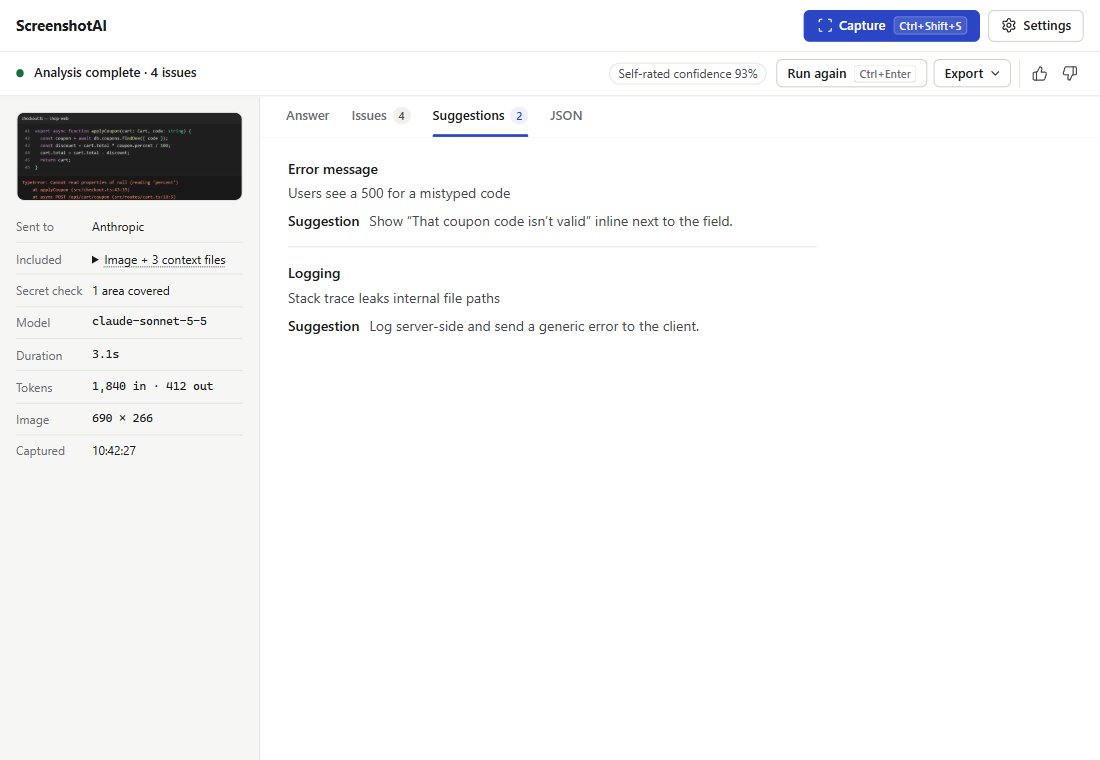
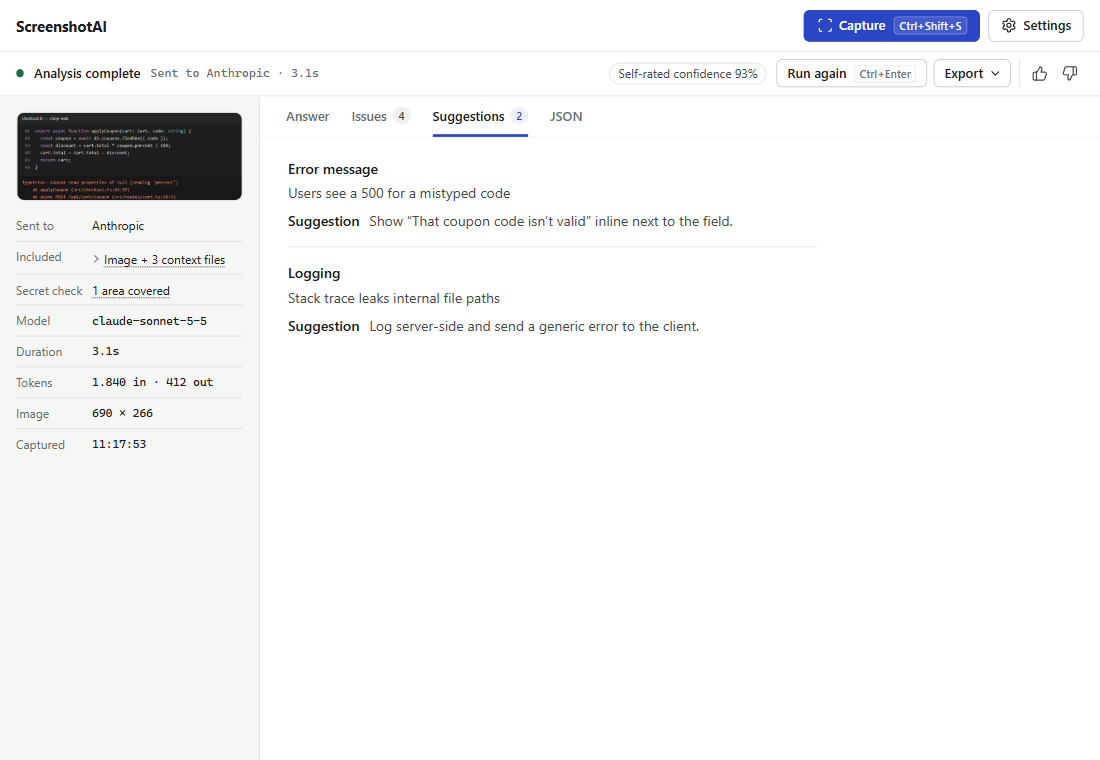
Keep the result across Settings and outline covered areas
- Save the last result, screenshot and run details in session storage
  and restore them on return, so Settings, the status chips and error
  links no longer reset the window to the welcome screen.
- The secret check now reports covered regions (positions only). The
  "Secret check" row opens the screenshot viewer with them outlined.
- Capture's tooltip names where the image is sent; the status line says
  "Sent to <provider> · <time>" instead of repeating the issue count.
- Drop fonts.css from the main window so its own font tokens apply.
- One disclosure chevron style, consistent run-detail fonts, token counts
  in the system locale, tooltips on the feedback buttons.
- Refresh README screenshots.

diff --git a/apps/desktop/src/renderer/index.ts b/apps/desktop/src/renderer/index.ts
@@ -230,6 +230,7 @@ function updateControls() {
   // Say where Run again sends the image: it's the one action that leaves the machine without a new capture.
   const sendTarget = `Sends the same image again to ${providerLabel(settingsProvider ?? runMeta.provider) || 'your AI provider'}.`;
   runAgainBtn.title = sendTarget;
+  captureBtn.title = `Capture a region and send it to ${providerLabel(settingsProvider) || 'your AI provider'} after a local secret check.`;
   const runAgainDesc = byId('run-again-desc');
   if (runAgainDesc) runAgainDesc.textContent = sendTarget;
   exportBtn.disabled = !showingResult;
@@ -309,7 +310,11 @@ function readShieldSummary(value: unknown): ShieldSummary | undefined {
   const s = value as Partial<ShieldSummary> | null | undefined;
   if (!s || !SHIELD_STATUSES.includes(String(s.status))) return undefined;
   const count = (n: unknown) => (typeof n === 'number' && Number.isFinite(n) && n >= 0 ? Math.floor(n) : 0);
-  return { status: s.status as ShieldSummary['status'], found: count(s.found), covered: count(s.covered) };
+  const regions = (Array.isArray(s.regions) ? s.regions : [])
+    .slice(0, 200)
+    .map(r => ({ x: count(r?.x), y: count(r?.y), w: count(r?.w), h: count(r?.h) }))
+    .filter(r => r.w > 0 && r.h > 0);
+  return { status: s.status as ShieldSummary['status'], found: count(s.found), covered: count(s.covered), ...(regions.length ? { regions } : {}) };
 }
 
 function receiveScreenshot(dataUrl: string, shield?: unknown) {
@@ -362,9 +367,9 @@ function renderRunMeta() {
     ['Secret check', meta.shield ? describeShield(meta.shield) : undefined, false],
     ['Model', model, true],
     ['Duration', typeof meta.durationMs === 'number' && meta.durationMs > 0 ? formatSeconds(meta.durationMs) : undefined, true],
-    ['Tokens', hasTokens ? formatTokens(meta.promptTokens!, meta.completionTokens!, 'en-US') : undefined, true],
+    ['Tokens', hasTokens ? formatTokens(meta.promptTokens!, meta.completionTokens!) : undefined, true],
     ['Image', meta.width && meta.height ? `${meta.width} × ${meta.height}` : undefined, true],
-    ['Captured', meta.capturedAt ? new Date(meta.capturedAt).toLocaleTimeString() : undefined, false],
+    ['Captured', meta.capturedAt ? new Date(meta.capturedAt).toLocaleTimeString() : undefined, true],
   ];
   screenshotMetadata.replaceChildren(...rows.filter(([, value]) => value).map(([label, value, mono]) => {
     const row = document.createElement('div');
@@ -375,6 +380,17 @@ function renderRunMeta() {
     if (mono) description.className = 'mono';
     description.textContent = value!;
     if (label === 'Included' && meta.sent) description.replaceChildren(renderSentDetails(meta.sent, value!));
+    if (label === 'Secret check' && meta.shield?.regions?.length && currentScreenshot) {
+      // The claim is checkable: open the capture with each covered area outlined.
+      const show = document.createElement('button');
+      show.type = 'button';
+      show.className = 'meta-link';
+      show.textContent = value!;
+      show.setAttribute('aria-label', `${value}: show in screenshot`);
+      show.title = 'Show covered areas in the screenshot';
+      show.addEventListener('click', openScreenshotViewer);
+      description.replaceChildren(show);
+    }
     row.append(term, description);
     return row;
   }));
@@ -673,6 +689,7 @@ function renderResult(response: ResultPayload, statusOverride?: string) {
     completionTokens: meta?.completionTokens,
   };
   lastResultView = { screenshot: currentScreenshot, meta: { ...runMeta } };
+  saveLastResult();
   renderRunMeta();
 
   filterSeverity = 'all';
@@ -685,10 +702,10 @@ function renderResult(response: ResultPayload, statusOverride?: string) {
   switchTab(landingTab());
   updateConfidence(data.confidence);
   resetFeedback();
-  // Provider, model and duration live in the side pane; the status line summarizes the outcome.
-  const issueCount = data.issues?.length ?? 0;
-  const outcome = issueCount ? `Analysis complete · ${issueCount} issue${issueCount === 1 ? '' : 's'}` : 'Analysis complete';
-  setStatus(statusOverride ? 'idle' : 'success', statusOverride ?? outcome);
+  // The tab badge carries the issue count; the status says where the image went and how long it took.
+  const where = joinDetail(providerLabel(runMeta.provider) ? `Sent to ${providerLabel(runMeta.provider)}` : undefined,
+    typeof runMeta.durationMs === 'number' && runMeta.durationMs > 0 ? formatSeconds(runMeta.durationMs) : undefined);
+  setStatus(statusOverride ? 'idle' : 'success', statusOverride ?? 'Analysis complete', where);
   updateControls();
 }
 
@@ -1217,6 +1234,7 @@ function updateViewerTransform() {
   if (!viewerImage) return;
   // CSSOM property (not markup): pan and zoom are continuous values.
   viewerImage.style.transform = `translate(${viewerPanX}px, ${viewerPanY}px) scale(${viewerZoom})`;
+  placeViewerRegions();
   if (viewerZoomLevel) viewerZoomLevel.textContent = `${Math.round(viewerZoom * 100)}%`;
 }
 
@@ -1232,12 +1250,51 @@ function resetViewer() {
   updateViewerTransform();
 }
 
+const SVG_NS = 'http://www.w3.org/2000/svg';
+
+/** Outline the areas the secret check covered, in the image's own pixel space. */
+function drawViewerRegions() {
+  const overlay = byId('viewer-regions');
+  const caption = byId('viewer-caption');
+  const regions = runMeta.shield?.regions ?? [];
+  if (!overlay || !viewerImage) return;
+  overlay.replaceChildren();
+  overlay.setAttribute('viewBox', `0 0 ${viewerImage.naturalWidth || 1} ${viewerImage.naturalHeight || 1}`);
+  for (const r of regions) {
+    const rect = document.createElementNS(SVG_NS, 'rect');
+    rect.setAttribute('x', String(r.x));
+    rect.setAttribute('y', String(r.y));
+    rect.setAttribute('width', String(r.w));
+    rect.setAttribute('height', String(r.h));
+    overlay.append(rect);
+  }
+  overlay.toggleAttribute('hidden', !regions.length);
+  if (caption) {
+    caption.hidden = !regions.length;
+    caption.textContent = regions.length ? `${regions.length} ${regions.length === 1 ? 'area' : 'areas'} covered before sending` : '';
+  }
+  placeViewerRegions();
+}
+
+/** Keep the overlay on the image's layout box with the same pan and zoom. */
+function placeViewerRegions() {
+  const overlay = byId('viewer-regions');
+  if (!overlay || !viewerImage || overlay.hasAttribute('hidden')) return;
+  overlay.style.left = `${viewerImage.offsetLeft}px`;
+  overlay.style.top = `${viewerImage.offsetTop}px`;
+  overlay.style.width = `${viewerImage.offsetWidth}px`;
+  overlay.style.height = `${viewerImage.offsetHeight}px`;
+  overlay.style.transform = viewerImage.style.transform;
+}
+
 function openScreenshotViewer() {
   if (!screenshotViewer || !viewerImage || !currentScreenshot) return;
   viewerReturnFocus = document.activeElement as HTMLElement | null;
   viewerImage.src = currentScreenshot;
   resetViewer();
   screenshotViewer.hidden = false;
+  if (viewerImage.complete) drawViewerRegions();
+  else viewerImage.addEventListener('load', drawViewerRegions, { once: true });
   byId('viewer-close')?.focus();
 }
 
@@ -1256,6 +1313,7 @@ function setupScreenshotViewer() {
   byId('viewer-zoom-out')?.addEventListener('click', () => setZoom(viewerZoom / 1.2));
   byId('viewer-reset')?.addEventListener('click', resetViewer);
   byId('viewer-close')?.addEventListener('click', closeScreenshotViewer);
+  window.addEventListener('resize', placeViewerRegions);
   screenshotViewer.querySelector('.screenshot-viewer-overlay')?.addEventListener('click', closeScreenshotViewer);
 
   viewerContent.addEventListener('wheel', event => {
@@ -1437,6 +1495,37 @@ function setupEventListeners() {
   });
 }
 
+// Settings opens in this same window, so the last result rides along in sessionStorage and comes back on return.
+const LAST_RESULT_KEY = 'screenshot-ai.last-result';
+
+function saveLastResult() {
+  if (!lastResult || !lastResultView) return;
+  const save = (screenshot: string | null) => sessionStorage.setItem(LAST_RESULT_KEY, JSON.stringify({ result: lastResult, view: { ...lastResultView, screenshot } }));
+  try {
+    save(lastResultView.screenshot);
+  } catch {
+    // Over quota with the image: keep the result without its preview rather than lose it.
+    try { save(null); } catch { /* storage unavailable: in-memory only */ }
+  }
+}
+
+function restoreLastResult(): boolean {
+  try {
+    const raw = sessionStorage.getItem(LAST_RESULT_KEY);
+    if (!raw) return false;
+    const stored = JSON.parse(raw) as { result?: ResultPayload; view?: { screenshot?: unknown; meta?: RunMeta } };
+    if (!stored.result?.success || !stored.result.data || !stored.view?.meta) return false;
+    const screenshot = typeof stored.view.screenshot === 'string' && SCREENSHOT_DATA_URL.test(stored.view.screenshot) ? stored.view.screenshot : null;
+    currentScreenshot = screenshot;
+    setPreview(screenshot);
+    runMeta = { ...stored.view.meta };
+    renderResult(stored.result);
+    return true;
+  } catch {
+    return false;
+  }
+}
+
 function initialize() {
   if (!initializeElements()) {
     console.error('Failed to initialize elements');
@@ -1455,7 +1544,8 @@ function initialize() {
   showView('welcome');
   switchTab('summary');
   updateControls();
-  void loadWelcome();
+  const restored = restoreLastResult();
+  void loadWelcome().then(() => { if (restored) updateControls(); });
 }
 
 if (document.readyState === 'loading') {

diff --git a/apps/desktop/src/renderer/index.html b/apps/desktop/src/renderer/index.html
@@ -4,7 +4,6 @@
     <meta charset="utf-8" />
     <meta http-equiv="Content-Security-Policy" content="default-src 'self'; script-src 'self'; style-src 'self' 'unsafe-inline'; img-src 'self' data:; font-src 'self'; connect-src 'self' ws://localhost:* ws://127.0.0.1:*; object-src 'none'; base-uri 'none'; form-action 'none'; frame-src 'none'" />
     <title>ScreenshotAI</title>
-    <link rel="stylesheet" href="fonts.css" />
     <style>
       /* ---------- Tokens ---------- */
       :root {
@@ -440,7 +439,19 @@
       .run-meta dt { color: var(--ink-3); }
       .run-meta dd { color: var(--ink); overflow-wrap: anywhere; font-variant-numeric: tabular-nums; }
       .run-meta dd.mono { font-size: 11.5px; line-height: 18px; }
-      .sent-files summary { cursor: pointer; color: var(--ink); text-decoration: underline dotted var(--ink-3); text-underline-offset: 3px; }
+      /* Same chevron as Technical details, so every disclosure in the window looks alike. */
+      .sent-files summary { display: inline-flex; align-items: center; gap: 7px; list-style: none; cursor: pointer; color: var(--ink); text-decoration: underline dotted var(--ink-3); text-underline-offset: 3px; }
+      .sent-files summary::-webkit-details-marker { display: none; }
+      .sent-files summary::before {
+        content: "";
+        flex: none;
+        width: 5px; height: 5px;
+        border-right: 1.5px solid var(--ink-3);
+        border-bottom: 1.5px solid var(--ink-3);
+        transform: rotate(-45deg);
+        transition: transform 200ms var(--ease-out);
+      }
+      .sent-files[open] summary::before { transform: rotate(45deg); }
       .sent-files summary:hover { color: var(--accent); }
       .sent-files ul { list-style: none; margin: 6px 0 0; padding: 0 0 0 8px; border-left: 2px solid var(--border); max-height: 132px; overflow-y: auto; }
       .sent-files li { font-size: 11.5px; line-height: 18px; color: var(--ink-2); white-space: nowrap; overflow: hidden; text-overflow: ellipsis; }
@@ -987,7 +998,24 @@
         user-select: none;
         pointer-events: none;
       }
-      .viewer-regions-canvas { position: absolute; inset: 0; width: 100%; height: 100%; pointer-events: none; }
+      /* Covered areas: a dashed outline drawn over the already-covered image, so the claim can be checked. */
+      .viewer-regions { position: absolute; pointer-events: none; overflow: visible; }
+      .viewer-regions[hidden] { display: none; }
+      .viewer-regions rect { fill: none; stroke: #f5b544; stroke-width: 2; stroke-dasharray: 6 4; vector-effect: non-scaling-stroke; }
+      .viewer-heading { display: flex; align-items: baseline; gap: 10px; min-width: 0; }
+      .viewer-caption { color: #c9cacf; font-size: 12px; white-space: nowrap; overflow: hidden; text-overflow: ellipsis; }
+      .meta-link {
+        padding: 0;
+        border: 0;
+        background: none;
+        color: var(--ink);
+        font: inherit;
+        text-align: left;
+        text-decoration: underline dotted var(--ink-3);
+        text-underline-offset: 3px;
+        cursor: pointer;
+      }
+      .meta-link:hover { color: var(--accent); }
 
       /* ---------- Narrow windows ---------- */
       @media (max-width: 600px) {
@@ -1112,10 +1140,10 @@
           </div>
         </div>
         <div id="feedback-buttons" class="feedback" hidden>
-          <button id="feedback-positive" class="btn btn-ghost btn-icon" type="button" aria-label="Helpful" aria-pressed="false">
+          <button id="feedback-positive" class="btn btn-ghost btn-icon" type="button" aria-label="Helpful" title="Helpful" aria-pressed="false">
             <svg class="icon" aria-hidden="true" viewBox="0 0 24 24" fill="none" stroke="currentColor" stroke-width="1.75" stroke-linecap="round" stroke-linejoin="round"><path d="M7 10v12"/><path d="M15 5.88 14 10h5.83a2 2 0 0 1 1.92 2.56l-2.33 8A2 2 0 0 1 17.5 22H4a2 2 0 0 1-2-2v-8a2 2 0 0 1 2-2h2.76a2 2 0 0 0 1.79-1.11L12 2a3.13 3.13 0 0 1 3 3.88Z"/></svg>
           </button>
-          <button id="feedback-negative" class="btn btn-ghost btn-icon" type="button" aria-label="Not helpful" aria-pressed="false">
+          <button id="feedback-negative" class="btn btn-ghost btn-icon" type="button" aria-label="Not helpful" title="Not helpful: tell us what was wrong" aria-pressed="false">
             <svg class="icon" aria-hidden="true" viewBox="0 0 24 24" fill="none" stroke="currentColor" stroke-width="1.75" stroke-linecap="round" stroke-linejoin="round"><path d="M17 14V2"/><path d="M9 18.12 10 14H4.17a2 2 0 0 1-1.92-2.56l2.33-8A2 2 0 0 1 6.5 2H20a2 2 0 0 1 2 2v8a2 2 0 0 1-2 2h-2.76a2 2 0 0 0-1.79 1.11L12 22a3.13 3.13 0 0 1-3-3.88Z"/></svg>
           </button>
           <div id="feedback-popover" class="popover" role="dialog" aria-labelledby="feedback-title" aria-describedby="feedback-note" hidden>
@@ -1199,7 +1227,10 @@
       <div class="screenshot-viewer-overlay"></div>
       <div class="screenshot-viewer-container">
         <div class="screenshot-viewer-header">
-          <h2 id="viewer-title">Screenshot</h2>
+          <div class="viewer-heading">
+            <h2 id="viewer-title">Screenshot</h2>
+            <span id="viewer-caption" class="viewer-caption" hidden></span>
+          </div>
           <div class="viewer-controls">
             <button id="viewer-zoom-out" class="viewer-btn" type="button" aria-label="Zoom out" title="Zoom out (-)">
               <svg class="icon" aria-hidden="true" viewBox="0 0 24 24" fill="none" stroke="currentColor" stroke-width="1.75" stroke-linecap="round" stroke-linejoin="round"><circle cx="11" cy="11" r="8"/><path d="m21 21-4.35-4.35"/><path d="M8 11h6"/></svg>
@@ -1218,7 +1249,7 @@
         </div>
         <div id="viewer-content" class="screenshot-viewer-content">
           <img id="viewer-image" alt="Captured screenshot" draggable="false">
-          <canvas id="viewer-regions" class="viewer-regions-canvas"></canvas>
+          <svg id="viewer-regions" class="viewer-regions" aria-hidden="true" preserveAspectRatio="none" hidden></svg>
         </div>
       </div>
     </div>

diff --git a/tests/e2e/error-handling.test.ts b/tests/e2e/error-handling.test.ts
@@ -41,6 +41,28 @@ describe('Built desktop error handling', () => {
     expect(await app.page.locator('.sent-files li').allTextContents()).toEqual(['src/a.ts', 'README.md']);
   });
 
+  it('outlines the areas the secret check covered and keeps the result across a trip to Settings', async () => {
+    // A 1x1 PNG stands in for the capture; the region is in its pixel space.
[1 lines of base64/hex data omitted]
+    await sendToRenderer(app, 'analysis:screenshot', { dataUrl, shield: { status: 'covered', found: 1, covered: 1, regions: [{ x: 0, y: 0, w: 1, h: 1 }] } });
+    await sendToRenderer(app, 'analysis:result', analysisResult('Shielded result'));
+    await app.page.waitForFunction(() => document.querySelector('#status-detail')?.textContent?.startsWith('Sent to OpenAI'));
+    await app.page.getByRole('button', { name: '1 area covered: show in screenshot' }).click();
+    await app.page.locator('#screenshot-viewer').waitFor();
+    expect(await app.page.locator('#viewer-regions rect').count()).toBe(1);
+    expect(await app.page.locator('#viewer-caption').textContent()).toBe('1 area covered before sending');
+    await app.page.keyboard.press('Escape');
+
+    // Settings opens in this window; coming back restores the result instead of the welcome screen.
+    await app.page.locator('#settings-link').click();
+    await app.page.waitForURL(/settings\.html/);
+    await app.page.goto(app.page.url().replace(/settings\.html.*$/, 'index.html'));
+    await app.page.waitForFunction(() => document.querySelector('#content-summary')?.textContent?.includes('Shielded result'));
+    expect(await app.page.locator('#welcome').isHidden()).toBe(true);
+    expect(await app.page.locator('#run-again-btn').isDisabled()).toBe(false);
+    expect(await app.page.getByRole('button', { name: '1 area covered: show in screenshot' }).isVisible()).toBe(true);
+  });
+
   it('describes a blocked request as not sent and keeps the last result reachable', async () => {
     await sendToRenderer(app, 'analysis:processing', { stage: 'analyzing', provider: 'openai', model: 'gpt-x' });
     await sendToRenderer(app, 'analysis:error', {
@@ -55,7 +77,7 @@ describe('Built desktop error handling', () => {
     expect(meta).toContain('Not sent to');
     expect(meta).not.toContain('Duration');
     await app.page.getByRole('button', { name: 'Back to last result' }).click();
-    await app.page.waitForFunction(() => document.querySelector('#content-summary')?.textContent?.includes('Recovered result'));
+    await app.page.waitForFunction(() => document.querySelector('#content-summary')?.textContent?.includes('Shielded result'));
     expect(await app.page.locator('#error-panel').isHidden()).toBe(true);
   });
 });

diff --git a/tests/unit/shield-summary.test.ts b/tests/unit/shield-summary.test.ts
@@ -106,7 +106,11 @@ describe('shieldCapture onSummary', () => {
     mocks.review = (payload) => payload.boxes;
     const { result, onSummary } = await capture();
     expect(result).not.toBe(png);
-    expect(onSummary).toHaveBeenCalledExactlyOnceWith({ status: 'covered', found: 1, covered: 1 });
+    expect(onSummary).toHaveBeenCalledExactlyOnceWith(expect.objectContaining({ status: 'covered', found: 1, covered: 1 }));
+    const [{ regions }] = onSummary.mock.calls[0];
+    // Positions only: the summary never carries the rule or the matched text.
+    expect(regions).toHaveLength(1);
+    expect(Object.keys(regions[0]).sort()).toEqual(['h', 'w', 'x', 'y']);
   });
 
   it('reports sent-uncovered when the user uncovers a finding', async () => {
@@ -120,7 +124,10 @@ describe('shieldCapture onSummary', () => {
     mocks.ocr.mockResolvedValue({ status: 'ok', result: { lines: [] }, ms: 5 });
     mocks.review = () => [{ x: 1, y: 1, w: 20, h: 20, source: 'manual' }, { x: 40, y: 1, w: 20, h: 20, source: 'manual' }];
     const { onSummary } = await capture({ clientName: 'agent' });
-    expect(onSummary).toHaveBeenCalledExactlyOnceWith({ status: 'covered', found: 0, covered: 2 });
+    expect(onSummary).toHaveBeenCalledExactlyOnceWith({
+      status: 'covered', found: 0, covered: 2,
+      regions: [{ x: 1, y: 1, w: 20, h: 20 }, { x: 40, y: 1, w: 20, h: 20 }],
+    });
   });
 
   it('reports nothing when the user cancels', async () => {

diff --git a/apps/desktop/src/main/shield.ts b/apps/desktop/src/main/shield.ts
@@ -42,6 +42,8 @@ export interface ShieldSummary {
   found: number;
   /** Areas covered in the image that was sent, detected or drawn by the user. */
   covered: number;
+  /** Where the covered areas are, in image pixels, so the main window can outline them. Positions only. */
+  regions?: Array<{ x: number; y: number; w: number; h: number }>;
 }
 
 export type ShieldNotice = 'none' | 'scan-failed' | 'scan-unavailable' | 'shield-off';
@@ -148,6 +150,7 @@ export async function shieldCapture(png: Buffer, request: ShieldRequest): Promis
       : finalBoxes.length > 0 ? 'covered' : 'clean',
     found: boxes.length,
     covered: finalBoxes.length,
+    ...(finalBoxes.length ? { regions: finalBoxes.map(({ x, y, w, h }) => ({ x, y, w, h })) } : {}),
   });
   logger.info('shield', 'Capture review sent', {
     agent: !!request.agent,

diff --git a/apps/desktop/src/renderer/utils/formatting.ts b/apps/desktop/src/renderer/utils/formatting.ts
@@ -540,7 +540,13 @@ export function describeError(code: string, message: string, context: ErrorConte
 }
 
 /** What the local secret check did to one capture (counts only). */
-export interface ShieldSummary { status: 'off' | 'clean' | 'covered' | 'sent-uncovered' | 'unchecked'; found: number; covered: number }
+export interface ShieldSummary {
+  status: 'off' | 'clean' | 'covered' | 'sent-uncovered' | 'unchecked';
+  found: number;
+  covered: number;
+  /** Covered areas in image pixels (positions only), for outlining in the viewer. */
+  regions?: Array<{ x: number; y: number; w: number; h: number }>;
+}
 
 /** "2 areas covered", "Nothing found", "Off": the secret check's result for this capture. */
 export function describeShield(s: ShieldSummary): string {
